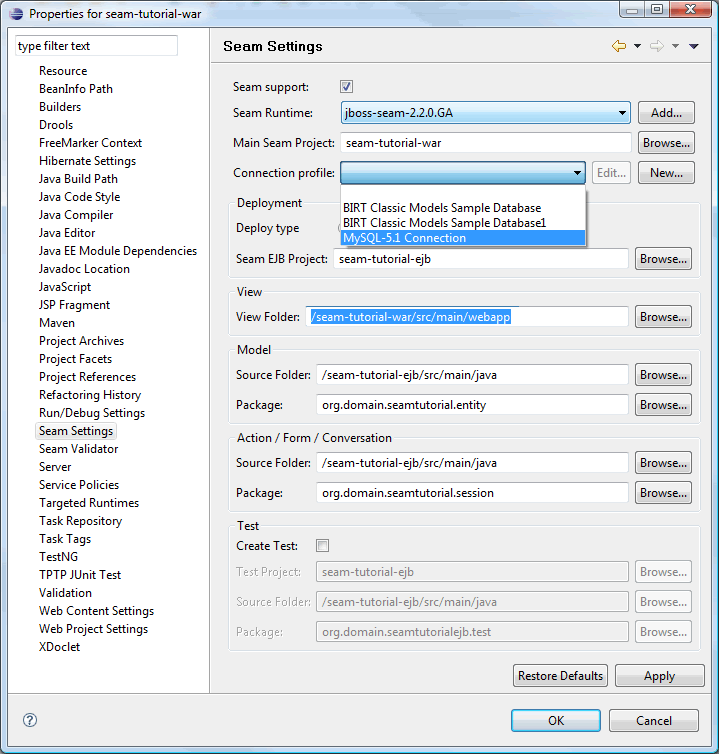
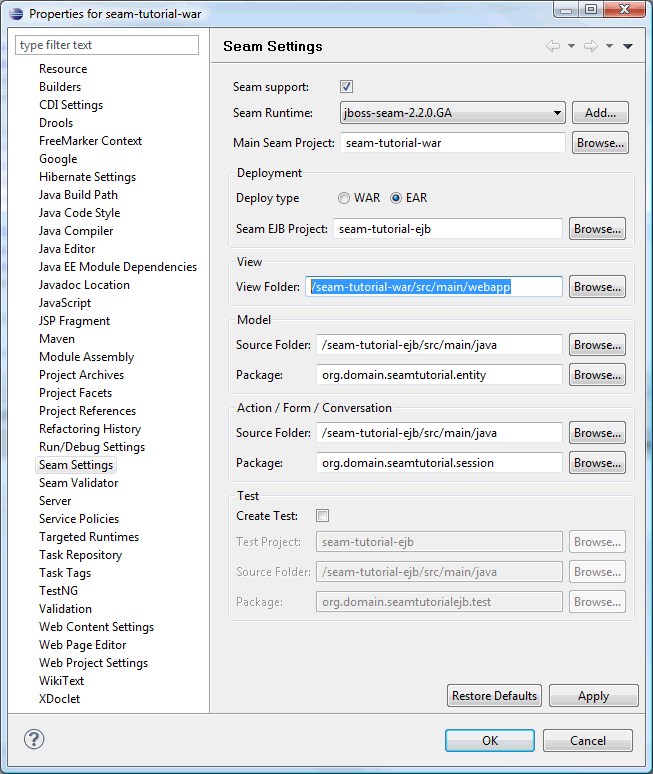
Updating Eclipse tutorial - FINISHED :-)) :-))

Changed region(s): [[0.0, 0.0, 1.0, 1.0], [0.5819, 0.0305, 0.7963, 0.061]]

diff --git a/doc/tutorial/02-eclipse.html b/doc/tutorial/02-eclipse.html
@@ -1100,11 +1100,6 @@ the main source of configuration, so we'll start with the WAR.</p>
   </li>
 </ol>
 
-
-
-<h1>The rest of the tutorial is temporary out of sync with the project!</h1>
-
-
 <h3 id="done-in-60-seconds">Reverse engineering - Done in 60 Seconds!</h3>
 <p>Well, the tutorial is not done in 60 seconds, but the revrese engineering is.</p>
 <p>We will re-use the project from the <a href="#entity-bean-the-seam-way">previous section</a>, so
@@ -1184,23 +1179,51 @@ complete that tutorial first.</p>
 <ol class="vspace">
 <li>
   Open the <strong>Seam</strong> perspective.
-  <img class="screenshot" src="img/eclipse-perspective-seam.png" style="width:300px; display:block;" />
+  <img class="screenshot" style="width:300px;" src="img/eclipse-perspective-seam.png" longdesc="img/eclipse-perspective-seam.png" />
+</li>
+<li>
+  Modify <code>filter-dev.properties</code>.
+  <pre style="font-size:10px;">
+...
+# Datasource
+ds                  =<font color="blue">mysql</font>
+ds.jndi.name        =${app}Database
+ds.database.name    =<font color="blue">open18initial_db</font>
+ds.server.name      =<font color="blue">localhost:3306</font>
+ds.driver.class     =<font color="blue">com.mysql.jdbc.Driver</font>
+ds.connection.url   =<font color="blue">jdbc:mysql://${ds.server.name}/${ds.database.name}?characterEncoding=UTF-8</font>
+ds.user.name        =<font color="blue">root</font>
+ds.password         =
+ds.hibernate.dialect=<font color="blue">org.hibernate.dialect.MySQL5InnoDBDialect</font>
+ds.xml              =${app.context}-ds.xml
+
+# Persistence unit
+pu.name                                      =${app}-unit
+pu.jta.data.source                           =java:/${ds.jndi.name}
+pu.hibernate.dialect                         =${ds.hibernate.dialect}
+pu.hibernate.hbm2ddl.auto                    =<font color="blue">update</font>
+pu.hibernate.show_sql                        =false
+pu.hibernate.default_batch_fetch_size        =16
+pu.hibernate.transaction.manager_lookup_class=org.hibernate.transaction.JBossTransactionManagerLookup
+pu.jboss.entity.manager.factory.jndi.name    =java:/${app.context}EntityManagerFactory
+...
+</pre>  
 </li>
 <li>
   Modify the <code>seam-tutorial</code> project.
   <ul>
   <li>
-    In <code>seam-tutorial-ejb</code>; delete all packages except for the 
-    <code><strong>org.jboss.seam.example.action</strong></code> package.
+    In <code>seam-tutorial-ejb</code>; delete packages <code>org.domain.seamtutorial.session</code> 
+    and <code>org.domain.seamtutorial.entity</code>.
   </li>
   <li>
-    In <code>seam-tutorial-war</code>; delete the <code><strong>view</strong></code> directory. 
+    In <code>seam-tutorial-war</code>; delete the <code>webapp/view/myEntityList.xhtml</code> 
+    and <code>webapp/view/myEntity.xhtml</code>.
   </li>
   </ul>
-  <img class="screenshot" src="img/eclipse-seam-db-entity-06.png" style="width:300px; display:block;" />
 </li>
 <li>
-  Modify <code><strong>menu.xhtml</strong></code>.
+  Modify <code><strong>webapp/layout/menu.xhtml</strong></code>.
   <pre>
 &lt;rich:toolBar
   xmlns=&quot;http://www.w3.org/1999/xhtml&quot;
@@ -1218,6 +1241,7 @@ complete that tutorial first.</p>
   &lt;/rich:toolBarGroup&gt;
 
   &lt;!-- @newMenuItem@ --&gt;
+  
   &lt;rich:toolBarGroup location=&quot;right&quot;&gt;
     &lt;h:outputText id=&quot;menuWelcomeId&quot;
       value=&quot;signed in as: #{credentials.username}&quot;
@@ -1238,19 +1262,18 @@ complete that tutorial first.</p>
   </pre>	
 </li>
 <li>
-  Modify Seam settings for WAR: Select the newly created connection and point the View directory to 
-  <strong>/seam-tutorial-war/src/main/webapp</strong> so that xhtml files are generated to the
-  webapp directory.
-  <img class="screenshot" src="img/eclipse-seam-db-entity-08.png" style="width:650px; display:block;" />
+  Modify Seam settings for WAR: Point the View directory to <code>/seam-tutorial-war/src/main/webapp</code> 
+  so that xhtml files are generated to the webapp directory.
+  <img class="screenshot" style="width:500px;" src="img/eclipse-seam-db-entity-08.png" longdesc="img/eclipse-seam-db-entity-08.png" />
 </li>
 <li>
   Modify Seam settings for EJB.
-  <img class="screenshot" src="img/eclipse-seam-db-entity-18.png" style="width:650px; display:block;" />
+  <img class="screenshot" style="width:500px;" src="img/eclipse-seam-db-entity-18.png" longdesc="img/eclipse-seam-db-entity-18.png" />
 </li>
 <li>
   For some reason the reverse engineering tool need a clean compiled project to do the reverse
   engineering, so run e.g. <code><strong>mvn clean package</strong></code> on the parent project.
-  <img class="screenshot" src="img/eclipse-seam-db-entity-20.png" style="width:600px; display:block;" />
+  <img class="screenshot" style="width:600px;" src="img/eclipse-seam-db-entity-20.png" longdesc="img/eclipse-seam-db-entity-20.png" />
 </li>
 </ol>
 
@@ -1258,26 +1281,25 @@ complete that tutorial first.</p>
 <ol class="vspace">
 <li>
   Open the <strong>Seam</strong> perspective.
-  <img class="screenshot" src="img/eclipse-perspective-seam.png" style="width:250px; display:block;" />
+  <img class="screenshot" style="width:250px;" src="img/eclipse-perspective-seam.png" longdesc="img/eclipse-perspective-seam.png" />
 </li>
   In Package Explorer, right click on the <strong>war</strong> or <strong>ejb</strong> project and 
   select <code><strong>New>Seam Generate Entities</strong></code>
-  <img class="screenshot" src="img/eclipse-seam-db-entity-31.png" style="width:650px; display:block;" />
+  <img class="screenshot" style="width:650px;" src="img/eclipse-seam-db-entity-31.png" longdesc="img/eclipse-seam-db-entity-31.png" />
   <br/>
-  <img src="img/eclipse-seam-db-entity-32.png" style="width:450px;" class="inline-block" />
-  <img src="img/eclipse-seam-db-entity-33.png" style="width:450px;" class="inline-block" />
+  <img src="img/eclipse-seam-db-entity-32.png" longdesc="img/eclipse-seam-db-entity-32.png" style="width:450px;" class="inline-block" />
+  <img src="img/eclipse-seam-db-entity-33.png" longdesc="img/eclipse-seam-db-entity-33.png" style="width:450px;" class="inline-block" />
 </li>
 <li>
   Now, sit back and watch the magic happen.<br/>
-  <img src="img/eclipse-seam-db-entity-34.png" style="width:300px;" class="inline-block" />
-  <img src="img/eclipse-seam-db-entity-35.png" style="width:300px;" class="inline-block" />
+  <img src="img/eclipse-seam-db-entity-35.png" longdesc="img/eclipse-seam-db-entity-34.png" style="width:700px;" class="screenshot" />
 </li>
 <li>
   Run <code>mvn install -Pexplode</code>, start server and point your browser to 
   <a href="http://localhost:8080/seam-tutorial/">http://localhost:8080/seam-tutorial/</a>
-  <img class="screenshot" src="img/eclipse-run-configurations-03.png" style="width:550px; display:block;" />
-  <img class="screenshot" src="img/eclipse-wtp-05.png" style="width:330px; display:block;" />
-  <img src="img/eclipse-seam-db-entity-36.png" style="width:700px;" class="inline-block" />
+  <img class="screenshot" style="width:550px;" src="img/eclipse-run-configurations-03.png" longdesc="img/eclipse-run-configurations-03.png" />
+  <img class="screenshot" style="width:330px;" src="img/eclipse-wtp-05.png" longdesc="img/eclipse-wtp-05.png" />
+  <img class="screenshot" style="width:700px;" src="img/eclipse-seam-db-entity-36.png" longdesc="img/eclipse-seam-db-entity-36.png" />
 </li>
 <li>
   A full enterprise CRUD application with basic security generated, deployed and up an running in 
